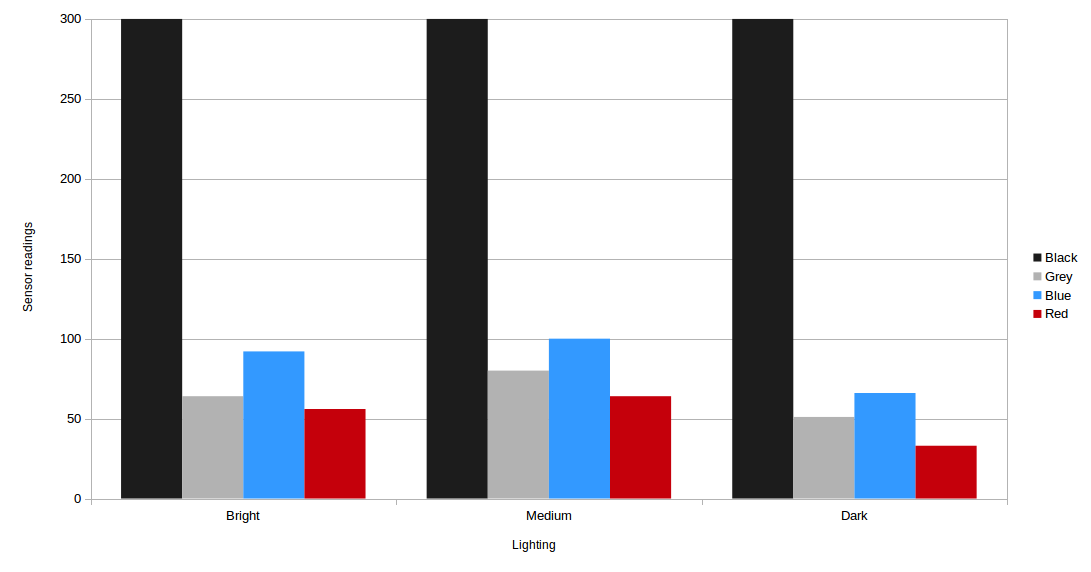
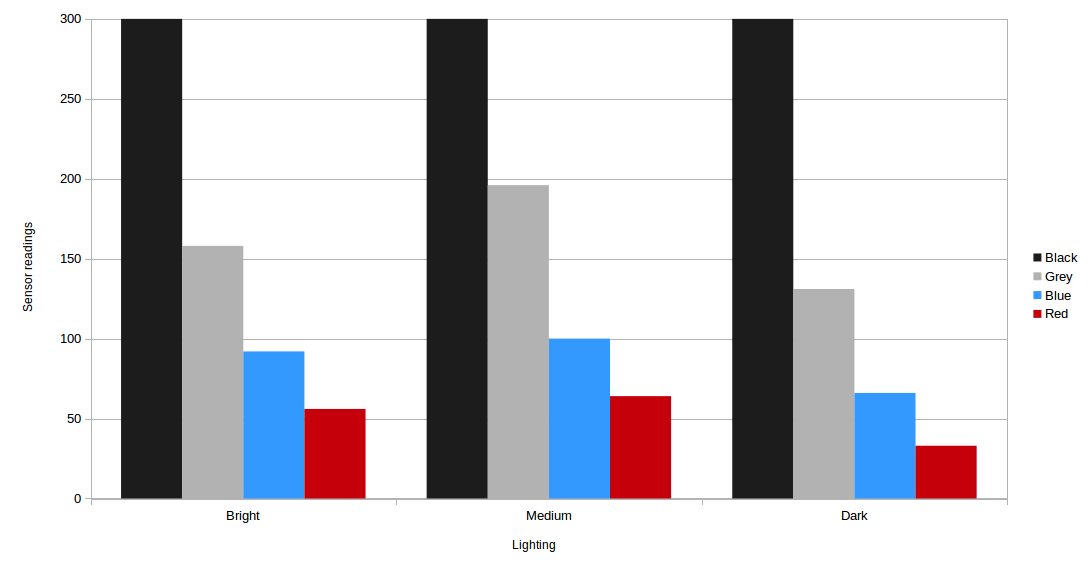
milestone 6 pdf final

Changed region(s): [[0.4363, 0.2972, 0.5298, 0.6538], [0.1558, 0.4161, 0.2493, 0.7133], [0.7168, 0.5052, 0.8103, 0.743]]

diff --git a/milestone6/tex/milestone6.tex b/milestone6/tex/milestone6.tex
@@ -55,9 +55,9 @@ Using the sensor in the center, we calibrated the robot for a bright environment
 \hline
 Lighting & Readings for & & & & \\
 Conditions & White ground & Black line & Grey line & Blue line & Red line \\ \hline
-Bright & 0 & 1000 & 64 & 92 & 56\\ \hline
-Medium & 0 & 1000 & 80 & 100 & 64\\ \hline
-Dark & 0 & 940 & 51 & 66 & 33\\
+Bright & 0 & 1000 & 158 & 92 & 56\\ \hline
+Medium & 0 & 1000 & 186 & 100 & 64\\ \hline
+Dark & 0 & 940 & 131 & 66 & 33\\
 \hline
 \end{tabular}
 
@@ -65,39 +65,50 @@ Dark & 0 & 940 & 51 & 66 & 33\\
 
 \includegraphics[width = 0.8\textwidth]{images/chart_brightness.png}
 
+
+\textit{(The y axis is capped at 300 for readibility reasons.)}
+
 \end{center}
 
 \subsection*{Velocity vs. Line Count}
-The following table contains our results from testing the accuracy of the line sensors for different velocities.
+The following table contains our results from testing the accuracy of the line sensors for different velocities. We let the robot drive in the arena at different speeds and instructed to stop after a certain number of lines counted. This worked perfectly for any speed.
 
 
 \begin{tabular}{ | c || r | r | r | }
 \hline
 Velocity & Lines Crossed & Lines Counted & $\Delta$ Lines \\
  & & &  \\ \hline
-10 & 9 & 1 & +2  \\ \hline
-15 & 14 & 1 & -7  \\ \hline
-20 & 14 & 1 & +7  \\ \hline
-30  & 14 & 1 & +7  \\ \hline
-40 & 14 & 1 & +7  \\ \hline
-50 & 14 & 1 & +7  \\ \hline
+Slow & 3 & 3 & $\pm 0$  \\ \hline
+(50) & 10 & 10 & $\pm 0$  \\ \hline
+Medium & 3 & 3 & $\pm 0$  \\ \hline
+(100)  & 10 & 10 & $\pm 0$  \\ \hline
+Fast & 3 & 3 & $\pm 0$ \\ \hline
+(200) & 10 & 10 & $\pm 0$ \\ \hline
+Max & 3 & 3 & $\pm 0$  \\ \hline
+(400) & 10 & 10 & $\pm 0$  \\ \hline
 \end{tabular}
 
 \subsection*{Velocity vs. Referee Updates}
 Accuracy of the position updates sent by the referee for different velocities.
+To test this the robot drives 100cm through the arena at a different speed each; 
+we monitor the referee interface and send position updates every second.
 
 
 \begin{tabular}{ | c || r | r | r | }
 \hline
-Estimated Position & Velocity & Pos Update &  $\Delta$Pos Update \\
- ( x, y) & & &  \\ \hline
-10, 0 & 9.8,0 & 10,0 & 0.2  \\ \hline
-15, 0 & 14.3,0 & 10,0 & 0.7 \\ \hline
-15, 0 & 14.3,0 & 10,0 & 0.7 \\ \hline
-15, 0 & 14.3,0 & 15,0 & 0.7 \\ \hline
-15, 0 & 14.3,0 & 15,0 & 0.7 \\ \hline
-15, 0 & 14.3,0 & 15,0 & 0.7 \\ \hline
+Velocity & Number of & Estimated Distance & Update Delay \\
+  & unique Updates & per Update &  \\ \hline
+Slow & $>$50 & ~1cm & 0.5s  \\ 
+(50) &  & &  \\ \hline
+Medium & 31 & 3cm & 0.5s \\ 
+(100) &  &  &  \\ \hline
+Fast & 8 & 15cm & 0.5s \\ 
+(200) &  &  &  \\ \hline
+Max & 2 & 100cm & 4s \\ 
+(400) &  &  &  \\ \hline
 \end{tabular}
+
+The results show that the referee is at least half a second delayed, and we found that for speeds above 300 it cannot track the robots sufficiently. Below that we just cover more distance between the referees updates for faster velocities, which makes the position updates less accurate.
 
 \section*{Testing Against a Model}
 
